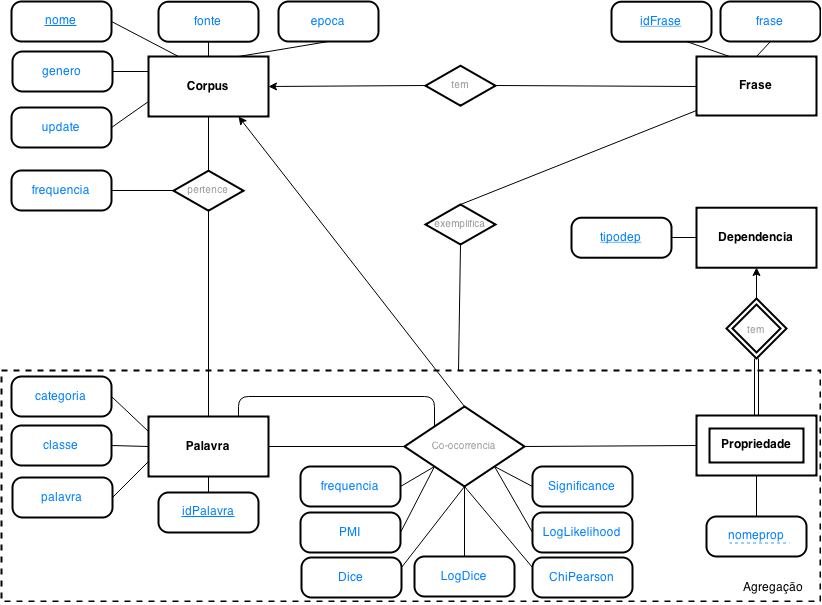
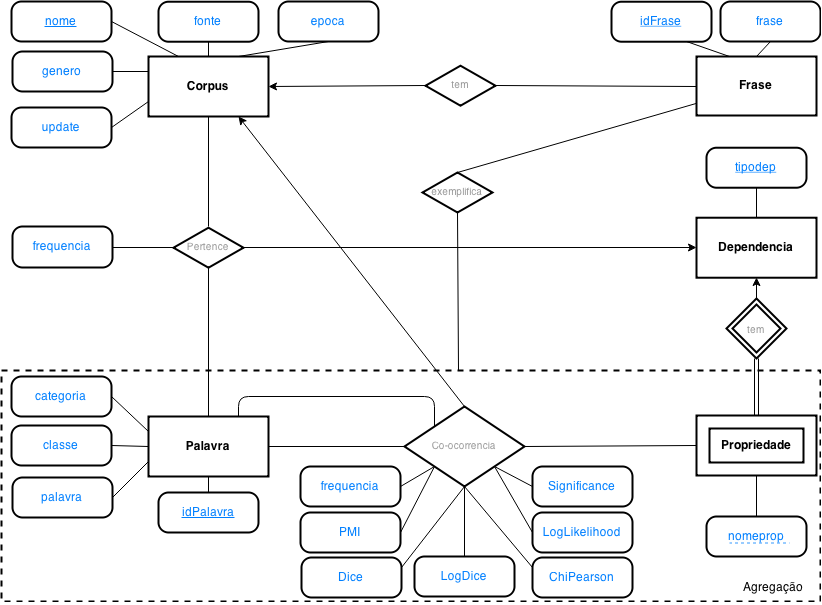
As medidas sao calculadas consoante as frequencias de cada depedencia, isto é, cada palavra tem uma contagem para cada depedencia. Update no modelo Ea

diff --git a/DeepExtractor/src/pt/inescid/l2f/dependencyExtractor/domain/database/Coocorrencia.java b/DeepExtractor/src/pt/inescid/l2f/dependencyExtractor/domain/database/Coocorrencia.java
@@ -5,6 +5,7 @@ import java.sql.PreparedStatement;
 import java.sql.ResultSet;
 import java.sql.SQLException;
 import java.sql.Statement;
+import java.util.HashMap;
 
 import pt.inescid.l2f.dependencyExtractor.domain.measures.AssociationMeasures;
 
@@ -233,7 +234,8 @@ public class Coocorrencia extends RelationalElement{
 	public void UpdateMeasures(Palavra pal){
 		int intervall = 1000;
 		int totalrows =  getNumberRows();
-		long nWords = pal.getNumberWords();
+		//long nWords = pal.getNumberWords();
+		HashMap<String, Long> nWords = new HashMap<String, Long>();
 		
 		int index = 0;
 		while(index < totalrows){
@@ -251,13 +253,22 @@ public class Coocorrencia extends RelationalElement{
 					long depfreq = rs.getLong("frequencia");
 					String dep = rs.getString("tipoDep");
 					String prop =  rs.getString("nomeProp");
+					long nWordDep = 0;
 					
+					if(nWords.containsKey(dep)){
+						nWordDep = nWords.get(dep); 
+					}
+					else{
+						nWordDep = pal.getNumberWords(dep);
+						nWords.put(dep, nWordDep);
+					}
+						
 					long word1freq = pal.getWordFrequency(word1,dep); 
 					
 					long word2freq = pal.getWordFrequency(word2, dep);
-				
+				//System.out.println(nWordDep);
 					
-					double pmi = AssociationMeasures.PMI(nWords, depfreq, word1freq, word2freq);
+					double pmi = AssociationMeasures.PMI(nWordDep, depfreq, word1freq, word2freq);
 					uptadeAssociationMeasure(word1, word2,prop, dep, "PMI", pmi);
 					
 					double dice = AssociationMeasures.Dice(depfreq, word1freq, word2freq);

diff --git a/DeepExtractor/src/pt/inescid/l2f/dependencyExtractor/DependencyExtractor.java b/DeepExtractor/src/pt/inescid/l2f/dependencyExtractor/DependencyExtractor.java
@@ -57,22 +57,23 @@ public class DependencyExtractor {
 		int sentenceNumber = 0;
 		for (XIPNode sentence : document.getSentences()) {
 			//String Frase =  "";		
+			
+			//número da frase, sentence.getSentenceNumber() não está a funcinar
 			sentenceNumber = sentence.getNodes().get(0).getSentenceNumber();
+			
 			/*for (XIPNode node : sentence.getNodes()) {
 				sentenceNumber = node.getSentenceNumber();
 				_wordCount.checkNode(node);
 			}	
-			*/	
+				
 			//System.out.println("Frase n :" + sentenceNumber);
-		
+			 */
 			for (Dependency dependency : document.getSentenceDependecies(sentenceNumber)) {
 			
 				if(map.containsKey(dependency.getName())){
 					map.get(dependency.getName()).getDepedencyInformation(dependency);
 				}
 			}
-			/*if (sentenceNumber == 1)
-				return;*/			
 			
 			
 		}

diff --git a/DeepExtractor/src/pt/inescid/l2f/dependencyExtractor/domain/database/Palavra.java b/DeepExtractor/src/pt/inescid/l2f/dependencyExtractor/domain/database/Palavra.java
@@ -12,21 +12,22 @@ public class Palavra extends RelationalElement{
 	private String _corpusName;
 	
 	
-	
-	
 	public Palavra(Connection conn, String corpusName) {
 		super(conn);
 		_idCounter= getLastId() + 1;
 		_corpusName = corpusName;
 	}
 
-	public long getNumberWords() {
+	public long getNumberWords(String depname) {
 		Statement stmt = null;
 		long totalFreq = 0;
 		try{
 			stmt = connection.createStatement();
 			
-			String sql = "Select sum(frequencia) as total from Pertence WHERE nomeCorpus = '"+ _corpusName +"'";
+			String sql = "Select sum(frequencia) as total " + 
+						 "from Pertence " + 
+						 "WHERE tipoDep = '" + depname +
+						 "' and nomeCorpus = '"+ _corpusName +"'";
 			
 			ResultSet rs = stmt.executeQuery(sql);
 

diff --git a/DeepExtractor/src/pt/inescid/l2f/connection/ConnectionMySQL.java b/DeepExtractor/src/pt/inescid/l2f/connection/ConnectionMySQL.java
@@ -21,8 +21,8 @@ public class ConnectionMySQL {
 		  Class.forName(driverName); 
 		  
 		  // Configuração da conexão à base de dados//
-		  	//String serverName = "localhost"; 
-		  	String serverName = "192.168.1.69";
+		  	String serverName = "localhost"; 
+		  	//String serverName = "192.168.1.69";
 		  	//String mydatabase = "db_deep";
 		  	String mydatabase = "db_deep_aux"; 	
 		  	String url = "jdbc:mysql://" + serverName + "/" + mydatabase; 
